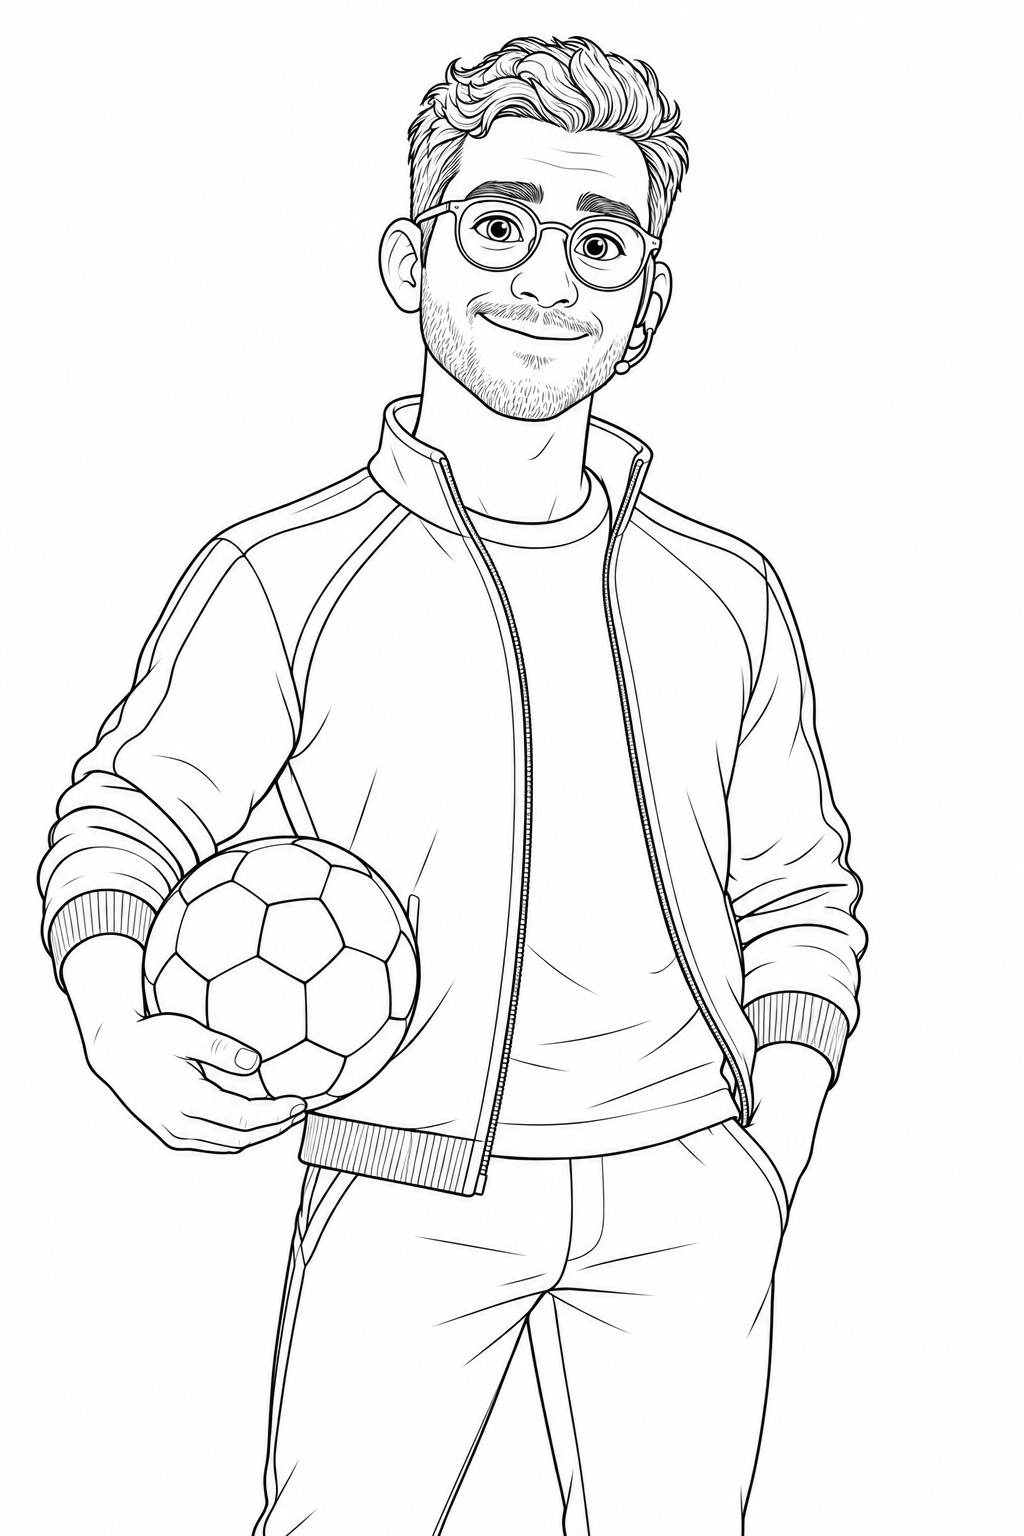
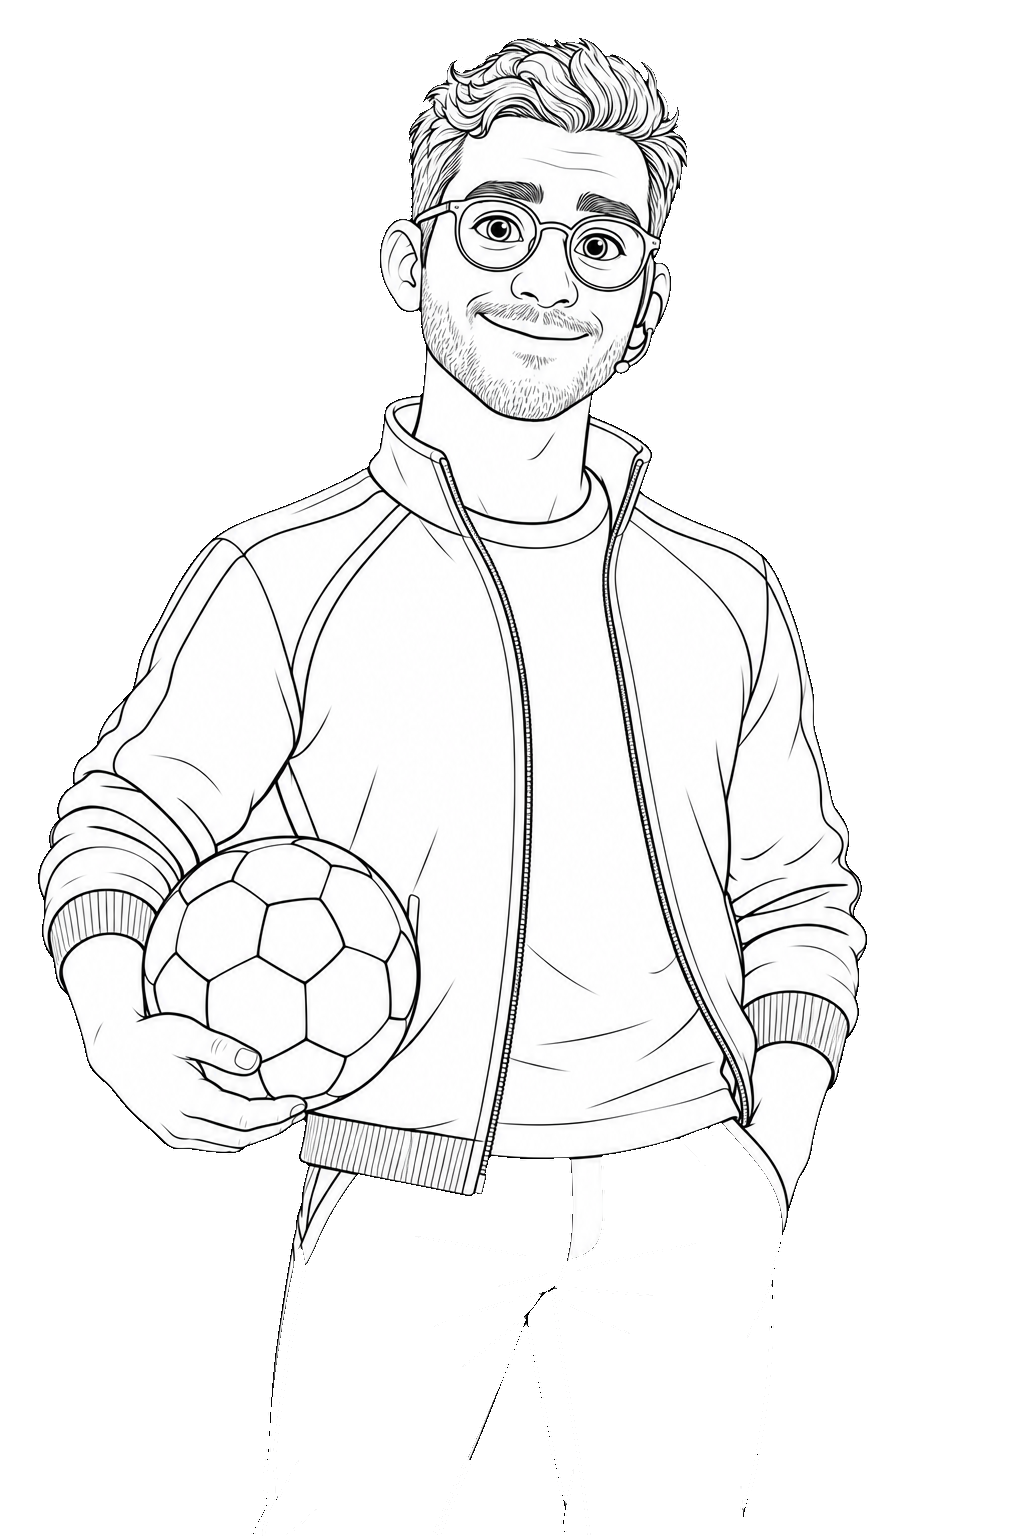
Match Invictus nav, fonts, and imagery on the platform page
Nav now mirrors the main site exactly: Home, Pricing, Contact, Platform dropdown (+Invictus), Account dropdown (Sign In/Sign Up/Reset Password), language label, Get Started. Removes the baked-in white background from the "Work in context" character illustration (both outline and colored versions) via edge-connected flood fill, so it sits directly on the page background. Applies the landing page's heading/body type scale (h1/h2/h3/p) across the template.

diff --git a/public/invictus-platform/brand-sections.css b/public/invictus-platform/brand-sections.css
@@ -11,6 +11,20 @@ html,body{background:var(--ls-beige)!important}
 .ivx-nav__links{display:flex;align-items:center;gap:1.75rem}
 .ivx-nav__links a{font-weight:600!important;font-size:1rem;color:var(--ls-black);text-decoration:none}
 .ivx-nav__links a:hover{color:var(--ls-blue)}
+.ivx-dd{position:relative}
+.ivx-dd summary{list-style:none;cursor:pointer;display:flex;align-items:center;gap:.3rem;font-weight:600!important;font-size:1rem;color:var(--ls-black)}
+.ivx-dd summary::-webkit-details-marker{display:none}
+.ivx-dd summary svg{width:14px;height:14px;transition:transform .2s ease}
+.ivx-dd[open] summary svg{transform:rotate(180deg)}
+.ivx-dd__menu{position:absolute;top:calc(100% + 14px);left:0;background:#fff;border:1px solid #0a0f1a14;border-radius:16px;padding:.75rem;display:flex;flex-direction:column;gap:.85rem;min-width:170px;box-shadow:0 12px 30px #0a0f1a1f;z-index:1000}
+.ivx-dd__menu a{display:flex;align-items:center;gap:.45rem;color:var(--ls-black);font-weight:600!important;font-size:.95rem;white-space:nowrap;text-decoration:none}
+.ivx-dd__menu a:hover{color:var(--ls-blue)}
+.ivx-dd__bullet{color:var(--ls-blue);font-weight:700}
+.ivx-lang{display:flex;align-items:center;gap:.4rem;color:var(--ls-black);font-weight:600!important;font-size:1rem}
+.ivx-lang svg{width:18px;height:18px}
+.ivx-nav__mobile .ivx-dd__menu{position:static;box-shadow:none;border:none;background:transparent;padding:.65rem 0 0 1.1rem}
+.ivx-nav__mobile .ivx-dd summary,.ivx-nav__mobile .ivx-lang{font-size:1.25rem!important}
+.ivx-nav__mobile .ivx-dd__menu a{font-size:1.05rem!important}
 .ivx-nav__cta{font-weight:600!important;font-size:.95rem;background:var(--ls-blue);color:#fff!important;padding:.65rem 1.4rem;border-radius:999px;text-decoration:none;white-space:nowrap;transition:background .2s ease}
 .ivx-nav__cta:hover{background:var(--ls-black)}
 .ivx-nav__burger{display:none;background:none;border:none;cursor:pointer;width:44px;height:44px;align-items:center;justify-content:center;flex-direction:column;gap:5px;padding:0}
@@ -22,6 +36,11 @@ html,body{background:var(--ls-beige)!important}
 .ivx-nav__mobile .ivx-nav__cta{align-self:flex-start}
 .ivx-nav.is-open .ivx-nav__mobile{display:flex}
 @media(max-width:900px){.ivx-nav__links{display:none}.ivx-nav__cta{display:none}.ivx-nav__burger{display:flex}}
+/* Invictus landing-page type scale (Hero/Features h1-h3 + body copy). */
+h1{font-size:clamp(2.75rem,6vw,5.25rem)!important;font-weight:700!important;line-height:1.2!important}
+h2{font-size:clamp(2.25rem,5vw,4.5rem)!important;font-weight:700!important;line-height:1.2!important}
+h3{font-size:1.5rem!important;font-weight:700!important;line-height:1.4!important}
+p{font-size:1.125rem!important;line-height:1.4!important;font-weight:400!important}
 /* Preserve the source's geometry and animation hooks; apply the requested palette. */
 .apl-acc-comp-light{background:var(--ls-beige);border-radius:2rem}
 .apl-acc-item-white{border-color:#b7b2a6!important;color:var(--ls-black)!important}

diff --git a/public/invictus-platform/index.html b/public/invictus-platform/index.html
@@ -376,6 +376,21 @@ transform: translateX(.25rem);
 <a href="../">Home</a>
 <a href="../pricing">Pricing</a>
 <a href="../contact">Contact</a>
+<details class="ivx-dd">
+<summary>Platform<svg viewbox="0 0 24 24" fill="none" stroke="currentColor" stroke-width="2" stroke-linecap="round" stroke-linejoin="round"><polyline points="6 9 12 15 18 9"></polyline></svg></summary>
+<div class="ivx-dd__menu">
+<a href="./"><span class="ivx-dd__bullet">+</span>Invictus</a>
+</div>
+</details>
+<details class="ivx-dd">
+<summary>Account<svg viewbox="0 0 24 24" fill="none" stroke="currentColor" stroke-width="2" stroke-linecap="round" stroke-linejoin="round"><polyline points="6 9 12 15 18 9"></polyline></svg></summary>
+<div class="ivx-dd__menu">
+<a href="../signin">Sign In</a>
+<a href="../signup">Sign Up</a>
+<a href="../reset-password">Reset Password</a>
+</div>
+</details>
+<span class="ivx-lang"><svg viewbox="0 0 24 24" fill="none" stroke="currentColor" stroke-width="2" stroke-linecap="round" stroke-linejoin="round"><circle cx="12" cy="12" r="10"></circle><line x1="2" y1="12" x2="22" y2="12"></line><path d="M12 2a15.3 15.3 0 0 1 4 10 15.3 15.3 0 0 1-4 10 15.3 15.3 0 0 1-4-10 15.3 15.3 0 0 1 4-10z"></path></svg>English</span>
 </nav>
 <a class="ivx-nav__cta" href="../reports">Get Started</a>
 <button aria-expanded="false" aria-label="Toggle menu" class="ivx-nav__burger" onclick="document.getElementById('ivx-nav').classList.toggle('is-open'); this.setAttribute('aria-expanded', document.getElementById('ivx-nav').classList.contains('is-open'));" type="button">
@@ -386,6 +401,21 @@ transform: translateX(.25rem);
 <a href="../">Home</a>
 <a href="../pricing">Pricing</a>
 <a href="../contact">Contact</a>
+<details class="ivx-dd is-mobile">
+<summary>Platform<svg viewbox="0 0 24 24" fill="none" stroke="currentColor" stroke-width="2" stroke-linecap="round" stroke-linejoin="round"><polyline points="6 9 12 15 18 9"></polyline></svg></summary>
+<div class="ivx-dd__menu">
+<a href="./"><span class="ivx-dd__bullet">+</span>Invictus</a>
+</div>
+</details>
+<details class="ivx-dd is-mobile">
+<summary>Account<svg viewbox="0 0 24 24" fill="none" stroke="currentColor" stroke-width="2" stroke-linecap="round" stroke-linejoin="round"><polyline points="6 9 12 15 18 9"></polyline></svg></summary>
+<div class="ivx-dd__menu">
+<a href="../signin">Sign In</a>
+<a href="../signup">Sign Up</a>
+<a href="../reset-password">Reset Password</a>
+</div>
+</details>
+<span class="ivx-lang"><svg viewbox="0 0 24 24" fill="none" stroke="currentColor" stroke-width="2" stroke-linecap="round" stroke-linejoin="round"><circle cx="12" cy="12" r="10"></circle><line x1="2" y1="12" x2="22" y2="12"></line><path d="M12 2a15.3 15.3 0 0 1 4 10 15.3 15.3 0 0 1-4 10 15.3 15.3 0 0 1-4-10 15.3 15.3 0 0 1 4-10z"></path></svg>English</span>
 <a class="ivx-nav__cta" href="../reports">Get Started</a>
 </nav>
 </header><div class="shadow-on-nav"></div><div class="nav-breakpoint w-embed"><style>
